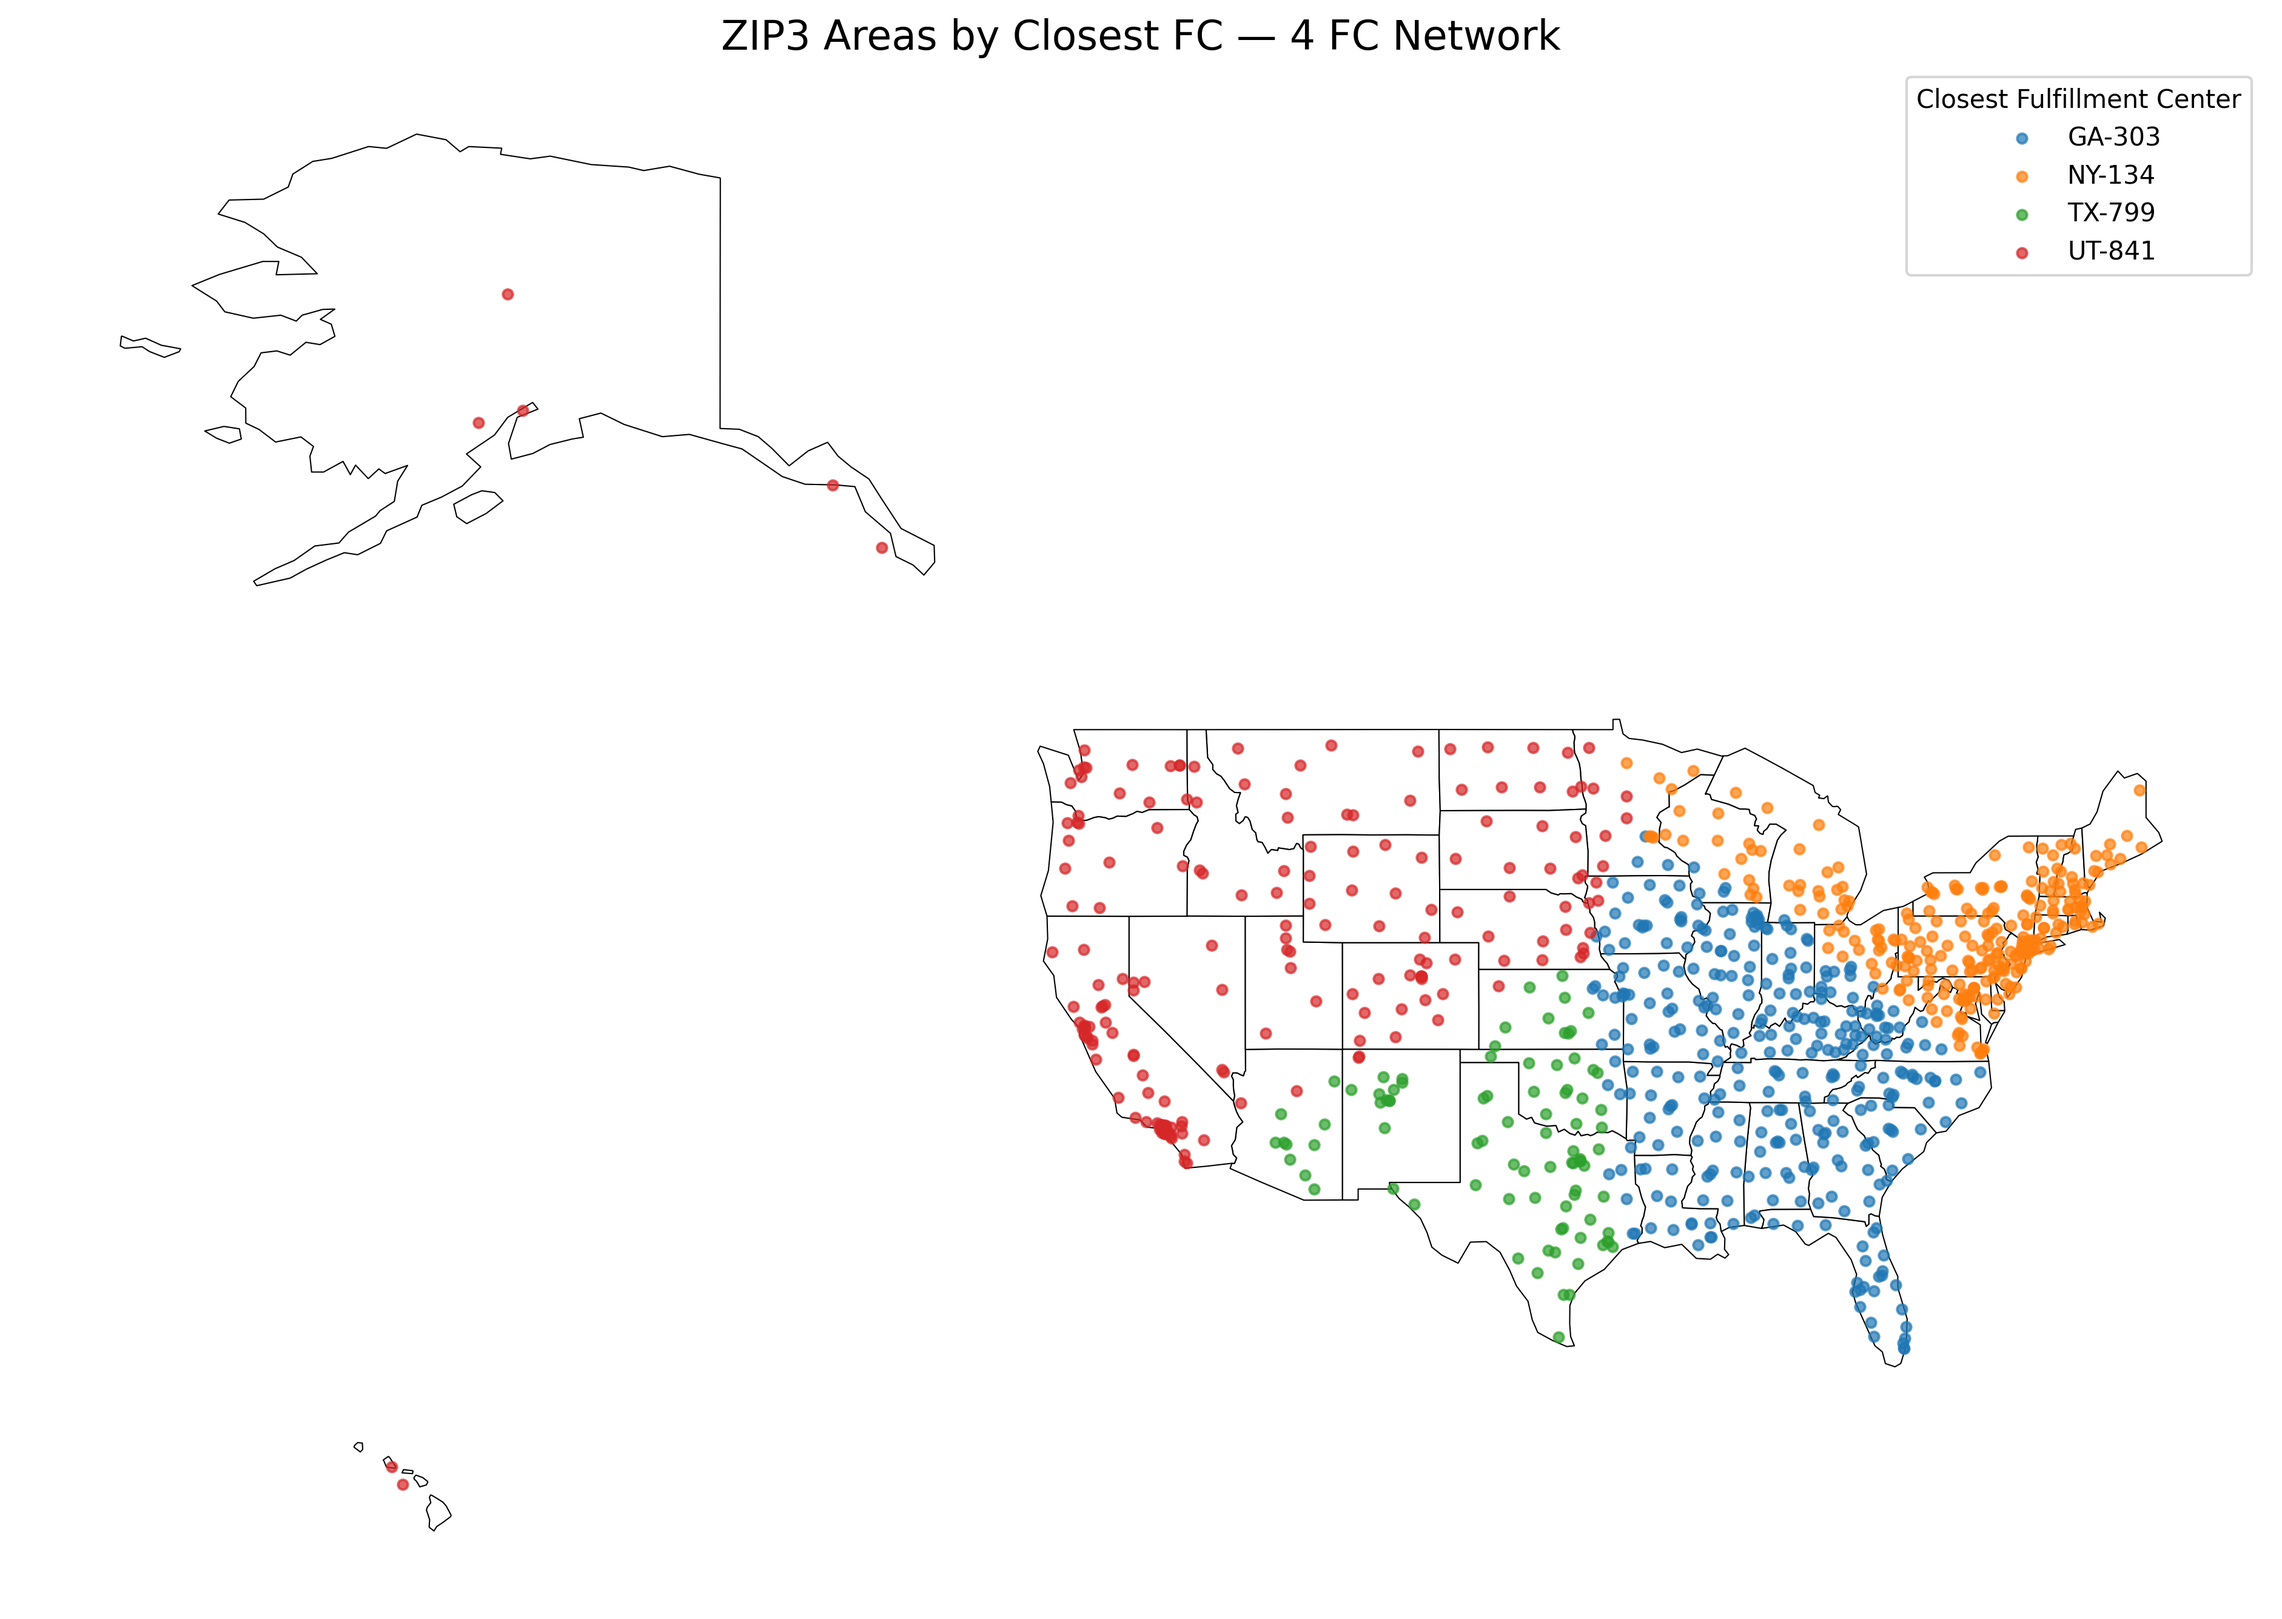
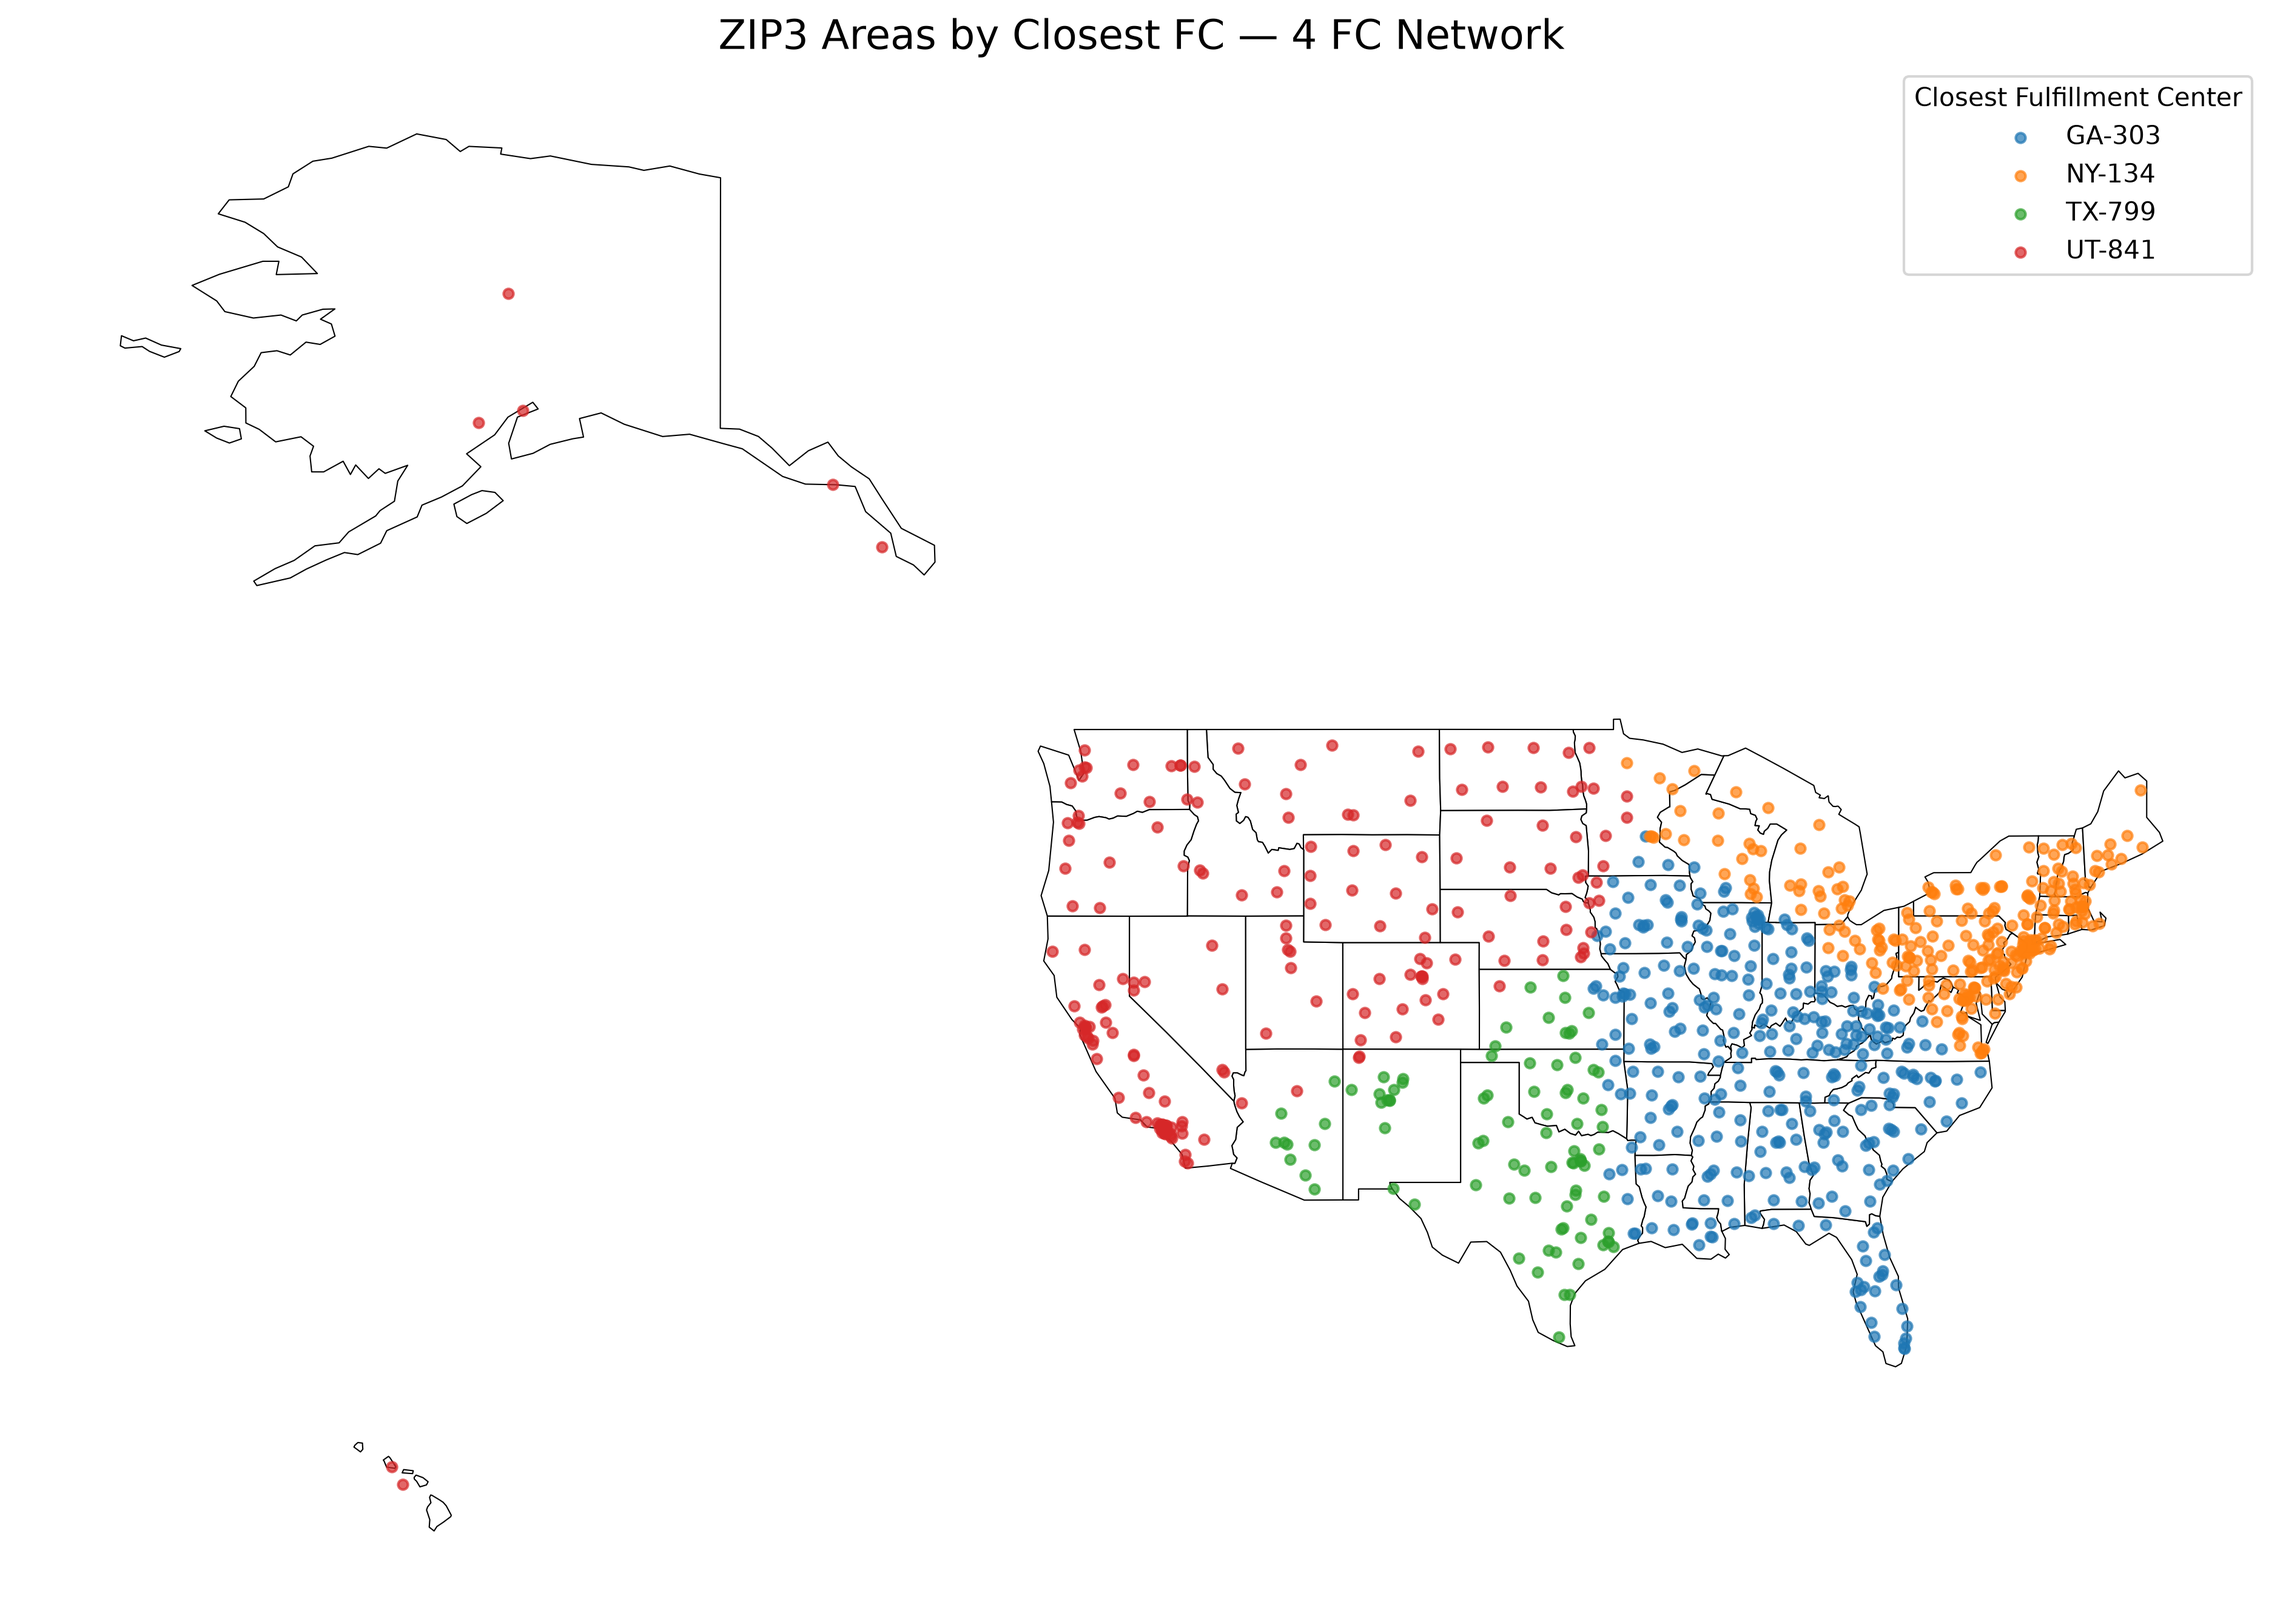
readme up to task 4

diff --git a/task3&4.py b/task3&4.py
@@ -200,9 +200,6 @@ def plot_map(gdf, title, fc_list):
             # Create a color from the FC's base color
             base_color = fc_base_colors[fc]
 
-            # Make different shades
-            # i = 0 → darkest
-            # i = 7 → lightest
 
             import matplotlib.colors as mcolors
 
